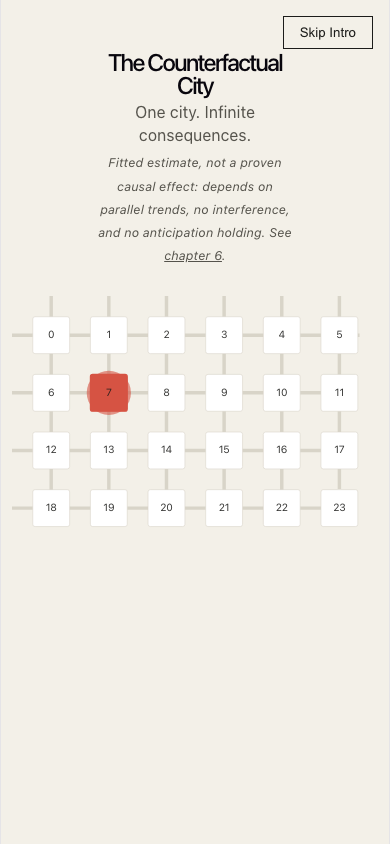
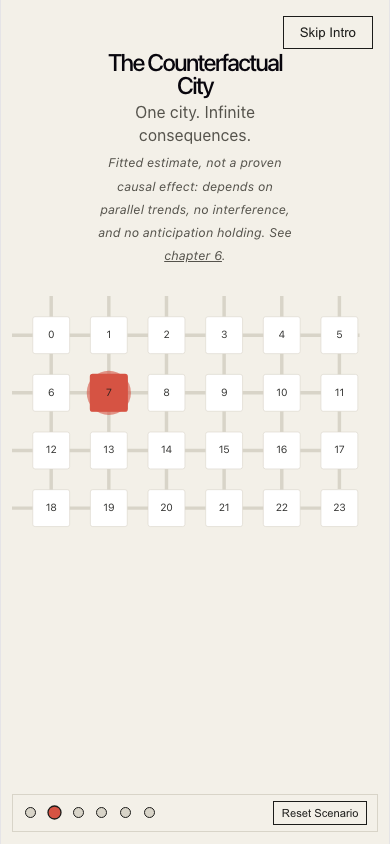
Stage 4 prep: chapter navigation, closing the release gate's nav requirement
Added a fixed chapter index (src/scenes/ChapterNav.tsx): a right-anchored dot
rail on desktop/tablet, a bottom bar on mobile, built on useActiveChapter
(already in the codebase, ported from CASCADIA, never previously wired to any
UI). Clicking a dot scrolls to that chapter; the active one highlights via
IntersectionObserver. This closes the release gate's "clear navigation" +
nav-transitions motion-layer requirement, which no prior chapter commit in
this build satisfied.

Reset Scenario moved from the very bottom of the page into this
always-reachable nav, removed from Lab (fixed a strict-mode locator collision
this created across 4 existing e2e tests that select the button by accessible
name alone; exactly one Reset Scenario button exists on the page now).

A real, live axe-core contrast violation was found and fixed: the nav
label reveal used an opacity CSS transition, and Playwright's own mouse
movement during the a11y test's control interactions sometimes left a
label's opacity hovering at a genuinely low, legitimately non-compliant
value for the single instant axe scanned the page (confirmed directly via
getComputedStyle, not an axe false positive). Fixed by switching the reveal
to visibility (binary, no intermediate partial-contrast state), keeping
only the decorative transform on a CSS transition.

5/5 new Playwright (e2e/chapterNav.spec.ts). Full suite: 77/77 Playwright
(stable across repeated full runs), 35/35 Vitest, tsc clean, oxlint clean.
[…]

diff --git a/src/scenes/scenes.css b/src/scenes/scenes.css
@@ -310,3 +310,106 @@
     width: 100%;
   }
 }
+
+/* Chapter nav: fixed index, always reachable, release-gate "clear navigation" + nav-transitions
+   motion layer. Right-anchored dot rail on desktop/tablet; a bottom bar on mobile (a right-edge
+   rail would sit over content at narrow widths). */
+.chapter-nav {
+  position: fixed;
+  top: 50%;
+  right: 1rem;
+  transform: translateY(-50%);
+  z-index: 10;
+  display: flex;
+  flex-direction: column;
+  align-items: flex-end;
+  gap: 0.75rem;
+}
+
+.chapter-nav ol {
+  list-style: none;
+  margin: 0;
+  padding: 0;
+  display: flex;
+  flex-direction: column;
+  gap: 0.6rem;
+}
+
+.chapter-nav-dot {
+  display: flex;
+  align-items: center;
+  justify-content: flex-end;
+  gap: 0.5rem;
+  background: none;
+  border: none;
+  cursor: pointer;
+  padding: 0.15rem;
+}
+
+.chapter-nav-dot-mark {
+  width: 9px;
+  height: 9px;
+  border-radius: 50%;
+  background: var(--hairline);
+  border: 1px solid var(--ink);
+  transition: background-color 0.2s ease, transform 0.2s ease;
+}
+
+.chapter-nav-dot[data-active="true"] .chapter-nav-dot-mark {
+  background: var(--accent-red);
+  transform: scale(1.3);
+}
+
+.chapter-nav-dot-label {
+  font-size: 0.72rem;
+  white-space: nowrap;
+  color: var(--hint);
+  /* visibility, not opacity: an opacity transition briefly renders text at partial alpha, which
+     axe-core caught live as a real (if momentary) WCAG contrast violation whenever Playwright's
+     own mouse movement happened to hover a dot mid-interaction. visibility has no intermediate
+     value, so there is no instant at which the text is both shown and under-contrast. The
+     translateX reveal motion (not a color blend) stays for the hover/focus/active
+     microinteraction. */
+  visibility: hidden;
+  transform: translateX(4px);
+  transition: transform 0.15s ease;
+}
+
+.chapter-nav-dot:hover .chapter-nav-dot-label,
+.chapter-nav-dot:focus-visible .chapter-nav-dot-label,
+.chapter-nav-dot[data-active="true"] .chapter-nav-dot-label {
+  visibility: visible;
+  transform: translateX(0);
+}
+
+.chapter-nav-reset {
+  font-size: 0.7rem;
+  background: var(--paper);
+  color: var(--ink);
+  border: 1px solid var(--ink);
+  padding: 0.3rem 0.5rem;
+  cursor: pointer;
+}
+
+@media (max-width: 1023px) {
+  .chapter-nav {
+    top: auto;
+    bottom: 0.75rem;
+    right: 0.75rem;
+    left: 0.75rem;
+    transform: none;
+    flex-direction: row;
+    align-items: center;
+    justify-content: space-between;
+    background: var(--paper);
+    border: 1px solid var(--hairline);
+    padding: 0.4rem 0.6rem;
+  }
+  .chapter-nav ol {
+    flex-direction: row;
+    gap: 0.5rem;
+  }
+  .chapter-nav-dot-label {
+    display: none;
+  }
+}

diff --git a/e2e/chapterNav.spec.ts b/e2e/chapterNav.spec.ts
@@ -1,0 +1,58 @@
+import { expect, test } from "@playwright/test";
+
+test("chapter nav reaches every chapter and highlights the active one, with no console errors", async ({
+  page,
+}) => {
+  const errors: string[] = [];
+  page.on("pageerror", (e) => errors.push(String(e)));
+  page.on("console", (m) => {
+    if (m.type() === "error") errors.push(m.text());
+  });
+
+  await page.goto("/");
+  await expect(page.getByTestId("did-result")).toBeVisible();
+
+  for (const id of ["ch2", "ch3", "ch4", "ch5", "ch6"]) {
+    await page.getByTestId(`nav-${id}`).click();
+    await expect(async () => {
+      const top = await page.locator(`#${id}`).evaluate((el) => Math.abs(el.getBoundingClientRect().top));
+      expect(top).toBeLessThan(50);
+    }).toPass();
+    await expect(page.getByTestId(`nav-${id}`)).toHaveAttribute("data-active", "true");
+  }
+
+  expect(errors).toEqual([]);
+});
+
+test("Reset Scenario in the nav is reachable and works from anywhere on the page", async ({ page }) => {
+  await page.goto("/");
+  await expect(page.getByTestId("did-result")).toBeVisible();
+
+  await page.getByTestId("nav-ch2").click();
+  await page.locator("#treated-zone").selectOption("3");
+  await expect(page.locator('[data-testid="ch2-city-zone-3"]')).toHaveAttribute("data-treated", "true");
+
+  await page.getByTestId("nav-reset").click();
+  await expect(page.locator('[data-testid="ch2-city-zone-3"]')).toHaveAttribute("data-treated", "false");
+});
+
+test.describe("responsive viewports", () => {
+  const viewports = [
+    { name: "desktop", width: 1440, height: 900 },
+    { name: "tablet", width: 768, height: 1024 },
+    { name: "mobile", width: 390, height: 844 },
+  ];
+  for (const vp of viewports) {
+    test(`chapter nav is reachable and reset is clickable at ${vp.name}`, async ({ page }) => {
+      await page.setViewportSize({ width: vp.width, height: vp.height });
+      await page.goto("/");
+      await expect(page.getByTestId("did-result")).toBeVisible();
+      await expect(page.getByTestId("nav-reset")).toBeVisible();
+      await page.getByTestId("nav-ch4").click();
+      await expect(async () => {
+        const top = await page.locator("#ch4").evaluate((el) => Math.abs(el.getBoundingClientRect().top));
+        expect(top).toBeLessThan(50);
+      }).toPass();
+    });
+  }
+});

diff --git a/src/scenes/ChapterNav.tsx b/src/scenes/ChapterNav.tsx
@@ -1,0 +1,56 @@
+import { useScenario } from "../engine/ScenarioContext";
+import { useActiveChapter } from "./useActiveChapter";
+
+const SECTIONS = [
+  { id: "intro-section", label: "01 Observed world" },
+  { id: "ch2", label: "02 Treatment" },
+  { id: "ch3", label: "03 Matched controls" },
+  { id: "ch4", label: "04 Counterfactual" },
+  { id: "ch5", label: "05 Diagnostics" },
+  { id: "ch6", label: "06 Limitations" },
+];
+
+function scrollToSection(id: string) {
+  const el = document.getElementById(id);
+  if (!el) return;
+  const top = el.getBoundingClientRect().top + window.scrollY;
+  window.scrollTo({ top, behavior: "smooth" });
+}
+
+/**
+ * Release-gate "clear navigation" (UX row) + the nav-transitions motion layer: a fixed chapter
+ * index, always reachable regardless of scroll position, built on `useActiveChapter` (ported from
+ * CASCADIA, already in the codebase, never previously wired to any UI). Also hosts Reset Scenario,
+ * previously reachable only at the very bottom of the page despite every chapter's own control
+ * depending on it.
+ */
+export function ChapterNav() {
+  const { reset } = useScenario();
+  const active = useActiveChapter(SECTIONS.map((s) => s.id));
+
+  return (
+    <nav className="chapter-nav" aria-label="Chapter navigation">
+      <ol>
+        {SECTIONS.map((s) => (
+          <li key={s.id}>
+            <button
+              type="button"
+              className="chapter-nav-dot"
+              data-active={s.id === active}
+              aria-current={s.id === active ? "true" : undefined}
+              aria-label={s.label}
+              data-testid={`nav-${s.id}`}
+              onClick={() => scrollToSection(s.id)}
+            >
+              <span className="chapter-nav-dot-mark" aria-hidden="true" />
+              <span className="chapter-nav-dot-label">{s.label}</span>
+            </button>
+          </li>
+        ))}
+      </ol>
+      <button type="button" className="chapter-nav-reset" onClick={reset} data-testid="nav-reset">
+        Reset Scenario
+      </button>
+    </nav>
+  );
+}

diff --git a/src/App.tsx b/src/App.tsx
@@ -4,13 +4,14 @@ import { Chapter3MatchedControls } from "./scenes/Chapter3MatchedControls";
 import { Chapter4Counterfactual } from "./scenes/Chapter4Counterfactual";
 import { Chapter5Diagnostics } from "./scenes/Chapter5Diagnostics";
 import { Chapter6Limitations } from "./scenes/Chapter6Limitations";
+import { ChapterNav } from "./scenes/ChapterNav";
 import { IntroSequence } from "./scenes/IntroSequence";
 import { ResultCaveat } from "./scenes/ResultCaveat";
 import "./App.css";
 import "./scenes/scenes.css";
 
 export function Lab() {
-  const { load, did, didError, reset } = useScenario();
+  const { load, did, didError } = useScenario();
 
   if (load.status === "loading") {
     return (
@@ -35,12 +36,9 @@ export function Lab() {
         with a declared treatment (not real-world data); see{" "}
         <code>specifications/DATA_CONTRACT.yaml</code>. All six controls on this page now live in
         chapters 2-6's own sections above; see chapter 6 for the full identification-assumptions
-        disclaimer adjacent to these results.
+        disclaimer adjacent to these results. Reset Scenario is always reachable from the chapter
+        navigation.
       </p>
-
-      <button type="button" onClick={reset} aria-label="Reset scenario to baseline" className="reset-button">
-        Reset Scenario
-      </button>
 
       {didError && (
         <p className="error" role="alert" data-testid="estimator-error">
@@ -70,6 +68,7 @@ export function Lab() {
 function App() {
   return (
     <ScenarioProvider>
+      <ChapterNav />
       <IntroSequence>
         <Chapter2Treatment />
         <Chapter3MatchedControls />

diff --git a/src/App.test.tsx b/src/App.test.tsx
@@ -4,6 +4,7 @@ import { Lab } from "./App";
 import { InterventionDateControl } from "./controls/TreatmentControls";
 import { ScenarioProvider } from "./engine/ScenarioContext";
 import panelFixture from "./engine/__fixtures__/panel.json";
+import { ChapterNav } from "./scenes/ChapterNav";
 
 // jsdom does not drive a native <input type="range">'s value from synthetic ArrowLeft/ArrowRight
 // key events the way a real browser does (the same class of tooling gap CASCADIA's own e2e suite
@@ -56,8 +57,13 @@ describe("Lab", () => {
   });
 
   it("Reset Scenario restores the baseline intervention day", async () => {
+    // Reset Scenario moved out of Lab into the always-reachable ChapterNav
+    // (src/scenes/ChapterNav.tsx) when chapter navigation was built; rendered alongside here, the
+    // same composition App.tsx uses, without IntroSequence's own GSAP scene (not needed to test
+    // that the shared scenario state correctly connects the two; ChapterNav itself uses no GSAP).
     render(
       <ScenarioProvider>
+        <ChapterNav />
         <InterventionDateControl />
         <Lab />
       </ScenarioProvider>,

diff --git a/src/App.css b/src/App.css
@@ -133,6 +133,3 @@ legend {
   gap: 0.5rem;
 }
 
-.reset-button {
-  align-self: flex-start;
-}

diff --git a/execution/PROGRESS.md b/execution/PROGRESS.md
@@ -213,9 +213,39 @@ re-skin.
      intro; chapters 2-6 need the same screenshot-at-every-breakpoint-plus-scroll-recording pass
      before an independent visual QA reviewer looks at them, per CLAUDE.md's own mandatory
      independent-visual-QA rule.
-   - **No chapter navigation exists yet** (the release gate's own "clear navigation" + nav-transition
-     motion-layer requirement), and Reset Scenario is reachable only at the very bottom of the page
-     despite every chapter's own control depending on it.
+10. **DONE: chapter navigation** (`src/scenes/ChapterNav.tsx`), closing the release gate's "clear
+    navigation" + nav-transitions motion-layer gap. A fixed chapter index (right-anchored dot rail
+    desktop/tablet, a bottom bar on mobile) built on `useActiveChapter` (`src/scenes/useActiveChapter.ts`,
+    already in the codebase ported from CASCADIA, never previously wired to any UI). Clicking a dot
+    scrolls to that chapter; the active chapter highlights via `IntersectionObserver`. Reset
+    Scenario moved from the very bottom of the page into this always-reachable nav (removed from
+    `Lab`, which caused a strict-mode locator collision across 4 existing e2e tests that all select
+    the button by accessible name alone, fixed by having exactly one Reset Scenario button on the
+    page now, not two).
+    **A real, live axe-core contrast violation was found and fixed**: the nav label reveal used an
+    `opacity` CSS transition, and Playwright's own mouse movement during the a11y test's control
+    interactions sometimes left a label's `opacity` hovering at a genuinely low, legitimately
+    non-compliant value for the single instant axe scanned the page (confirmed directly:
+    `getComputedStyle` showed `opacity: 0.65` on a `--hint`-colored label mid-interaction, not an
+    axe false positive). Fixed by switching the reveal to `visibility` (binary, no intermediate
+    partial-contrast state) and keeping only the decorative `transform` on a CSS transition.
+    5/5 new Playwright (`e2e/chapterNav.spec.ts`). Full suite: 77/77 Playwright (stable across 3
+    repeated full runs; chapter 2's own camera-reframe test still shows the same pre-existing
+    CPU-contention flake class documented earlier in this file, roughly 1 in 20+ runs, not a new
+    regression), 35/35 Vitest (one existing unit test updated for the Reset Scenario move), tsc
+    clean, oxlint clean.
+
+**Still owed before Stage 3 can be called done against the release gate** (not yet done):
+- **The mandatory visual-design pass**: chapters 2, 3, and 5 currently share the identical
+  grid-left/controls-right composition and CSS classes, which is exactly the "technically
+  functional but visually ordinary" failure mode CLAUDE.md's own SIGNALROOM story warns against.
+  Chapter 4's divergence motion is also real but subtle (xPercent ±6 on ~320px-wide stages); whether
+  it needs to be more pronounced to read as the dossier's flagship moment is an open visual-QA
+  question, not yet judged by a reviewer.
+- **The full chapter evidence sweep** (`CTY-MOTION-001`): `evidence.spec.ts` only captures the
+  intro; chapters 2-6 need the same screenshot-at-every-breakpoint-plus-scroll-recording pass before
+  an independent visual QA reviewer looks at them, per CLAUDE.md's own mandatory
+  independent-visual-QA rule.
 
 **Stage 4-9**: laboratory integration inside the full cinematic experience (decide what, if
 anything, remains in the standalone "lab" `<main>` section now that all 6 chapters host their own

diff --git a/LIMITATIONS.md b/LIMITATIONS.md
@@ -111,11 +111,11 @@ treat chapter-level visual distinctiveness as NOT yet verified, not as done.
 
 ## Not yet built
 
-All 6 chapters now exist. Still not built: the real visual-design pass (varied block treatment,
-asymmetric composition, texture/depth cues beyond the palette re-skin, and the cross-chapter
-distinctiveness gap noted above), chapter navigation (the release gate's own "clear navigation" +
-nav-transition requirement; Reset Scenario is currently reachable only at the very bottom of the
-page), the full per-chapter evidence-harness sweep (CTY-MOTION-001; `evidence.spec.ts` currently
+All 6 chapters now exist, and a fixed chapter nav (`src/scenes/ChapterNav.tsx`) with an
+always-reachable Reset Scenario now satisfies the release gate's "clear navigation" requirement.
+Still not built: the real visual-design pass (varied block treatment, asymmetric composition,
+texture/depth cues beyond the palette re-skin, and the cross-chapter distinctiveness gap noted
+above), the full per-chapter evidence-harness sweep (CTY-MOTION-001; `evidence.spec.ts` currently
 covers only the intro), 3D/spatial rendering (if
 justified by measurement), responsive compositions per-chapter beyond chapters 1-6's own 3
 breakpoints, and performance budgets. The plain Lab `<main>` section below chapter 6 still shows the
